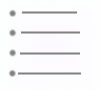
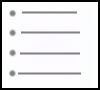
UI 'improvements'

Changed region(s): [[0.0, 0.0, 1.0, 1.0]]

diff --git a/src/ui/componentfactory/UtilityComponentFactory.kt b/src/ui/componentfactory/UtilityComponentFactory.kt
@@ -12,9 +12,12 @@ import javafx.scene.image.ImageView
 import javafx.scene.image.PixelFormat
 import javafx.scene.image.WritableImage
 import javafx.scene.input.MouseEvent
+import javafx.scene.layout.GridPane
+import javafx.scene.layout.StackPane
 import javafx.scene.text.Font
 import javafx.scene.text.Text
 import javafx.util.Duration
+import jdk.jshell.execution.Util
 import main.UIGlobals
 import shortstate.ShortStateCharacter
 import shortstate.report.Report
@@ -26,9 +29,13 @@ import ui.specialdisplayables.selectionmodal.Tab
 object UtilityComponentFactory {
 
     fun imageView(url: String, height: Double): ImageView {
+        return imageView(url, height, 1.0)
+    }
+
+    fun imageView(url: String, height: Double, width: Double): ImageView {
         val retval = ImageView(imageFromPath(url))
         retval.fitHeight = (UIGlobals.totalHeight()) * height
-        retval.fitWidth = UIGlobals.totalWidth()
+        retval.fitWidth = UIGlobals.totalWidth() / width
         return retval
     }
 
@@ -65,7 +72,7 @@ object UtilityComponentFactory {
         return view
     }
 
-    fun newSceneButton(perspective: ShortStateCharacter): Button {
+    fun newSceneButton(perspective: ShortStateCharacter): Node {
         return shortButton("Go Somewhere Else",
                 EventHandler { _ -> UIGlobals.focusOn(
                     NewSceneSelector.newSceneSelector(perspective)
@@ -74,11 +81,11 @@ object UtilityComponentFactory {
         )
     }
 
-    fun backButton(): Button{
+    fun backButton(): Node{
         return proportionalBackButton(1.0)
     }
 
-    fun proportionalBackButton(proportion: Double): Button{
+    fun proportionalBackButton(proportion: Double): Node{
         return proportionalButton("Back", EventHandler { UIGlobals.defocus() }, proportion)
     }
 
@@ -103,22 +110,25 @@ object UtilityComponentFactory {
         }
     }
 
-    fun shortButton(text: String, action: EventHandler<MouseEvent>?): Button {
+    fun shortButton(text: String, action: EventHandler<MouseEvent>?): Node {
         return shortButton(text, action, 1)
     }
 
-    fun shortButton(text: String, action: EventHandler<MouseEvent>?, specialWidth: Int): Button {
+    fun shortButton(text: String, action: EventHandler<MouseEvent>?, specialWidth: Int): Node {
         return shortButton(text, action, specialWidth.toDouble())
     }
 
-    fun shortButton(text: String, action: EventHandler<MouseEvent>?, specialWidth: Double): Button {
+    fun shortButton(text: String, action: EventHandler<MouseEvent>?, specialWidth: Double): Node {
         val retval = proportionalButton(text, action, 4.0)
-        retval.setMinSize(retval.minWidth*specialWidth, retval.minHeight)
         return retval
     }
 
-    fun shortWideButton(text: String, action: EventHandler<MouseEvent>?): Button {
+    fun shortWideButton(text: String, action: EventHandler<MouseEvent>?): Node {
         return proportionalButton(text, action, 1.0)
+    }
+
+    fun shortWideClickedButton(text: String, action: EventHandler<MouseEvent>?): Node {
+        return proportionalButton(text, action, 1.0, 0.1, true)
     }
 
     fun shortWideTextField(text: String): TextField{
@@ -152,11 +162,21 @@ object UtilityComponentFactory {
         return retval
     }
 
-    fun proportionalButton(text: String, action: EventHandler<MouseEvent>?, proportion: Double): Button{
-        val retval = Button(text)
-        setSize(retval, proportion)
+    fun proportionalButton(text: String, action: EventHandler<MouseEvent>?, proportion: Double): Node{
+        return proportionalButton(text, action, proportion, 0.1, false)
+    }
+
+    fun proportionalButton(text: String, action: EventHandler<MouseEvent>?, width: Double, height: Double, clicked: Boolean): Node{
+        val image = if(clicked){ imageView("assets/general/generalButtonSelected.png", height, width)} else {imageView("assets/general/generalButton.png", height, width)}
+
+        val text = Text(text)
+        text.font = Font(20.0)
+
+        val retval = StackPane()
+        retval.children.add(image)
+        retval.children.add(text)
         if (action != null) {
-            retval.onMouseClicked = action
+            retval.onMouseClicked = EventHandler { event -> retval.children.set(0, imageView("assets/general/generalButtonSelected.png", height, width)); image.fitWidth = UIGlobals.totalWidth() / width; action.handle(event) }
         }
         return retval
     }

diff --git a/src/ui/specialdisplayables/selectionmodal/SelectionModal.kt b/src/ui/specialdisplayables/selectionmodal/SelectionModal.kt
@@ -1,7 +1,9 @@
 package ui.specialdisplayables.selectionmodal
 
+import javafx.application.Platform
 import javafx.collections.FXCollections
 import javafx.event.EventHandler
+import javafx.geometry.Insets
 import javafx.scene.Scene
 import javafx.scene.control.Button
 import javafx.scene.control.ListView
@@ -23,11 +25,11 @@ class SelectionModal<T>: NoPerspectiveDisplayable {
     val parent = UIGlobals.GUI()
     val title: String
     val options: List<Tab<T>>
-    val closeAction: (T) -> Unit
+    val closeAction: ((T) -> Unit)?
 
     var focusedTab: Tab<T>
 
-    constructor(title: String, options: List<Tab<T>>, action: (T) -> Unit): super(){
+    constructor(title: String, options: List<Tab<T>>, action: ((T) -> Unit)?): super(){
         this.title = title
         this.options = options
         this.focusedTab = options[0]
@@ -72,13 +74,8 @@ class SelectionModal<T>: NoPerspectiveDisplayable {
             val tabsPane = GridPane()
             var index = 0
             options.forEach {
-                val topic = Button(it.title)
-                if(it == focusedTab){
-                    topic.font = Font(18.0)
-                } else {
-                    topic.onAction = EventHandler {_ -> focusedTab = it; parent.display()}
-                }
-                topic.setMinSize(parent.totalWidth / options.size, parent.totalHeight / 20)
+                val topic = UtilityComponentFactory.proportionalButton(it.title, EventHandler{_ -> focusedTab = it; parent.display()}, options.size * 1.0, 0.05, it == focusedTab)
+
                 tabsPane.add(topic, index++, 0)
             }
             retval.add(tabsPane, 0,1)
@@ -88,15 +85,23 @@ class SelectionModal<T>: NoPerspectiveDisplayable {
         return retval
     }
 
-    internal class ActionPickCell<T>(val closeAction: (T) -> Unit) : ListCell<T>() {
+    internal class ActionPickCell<T>(val closeAction: ((T) -> Unit)?) : ListCell<T>() {
         public override fun updateItem(item: T?, empty: Boolean) {
             if(item != null){
                 super.updateItem(item, empty)
                 val displayText = if(item is PrettyPrintable){ item.prettyPrint(UIGlobals.GUI().shortGame(), UIGlobals.playingAs()) } else{ item.toString() }
-                val text = Text(displayText)
-                text.font = Font(20.0)
-                this.graphic = text
-                this.onMouseClicked = EventHandler{_ -> closeAction(item)}
+
+                if(closeAction != null){
+                    this.graphic = UtilityComponentFactory.shortWideButton(displayText, EventHandler { })
+                    this.onMouseClicked = EventHandler { _ -> this.graphic = UtilityComponentFactory.shortWideClickedButton(displayText, EventHandler { });  Platform.runLater { Thread.sleep(100); closeAction!!(item) }}
+                    this.padding = Insets.EMPTY
+                } else {
+                    val node = GridPane()
+
+                    node.add(UtilityComponentFactory.shortWideLabel(displayText),0,0)
+
+                    this.graphic = node
+                }
             }
         }
     }

diff --git a/src/ui/componentfactory/MiddlePaneComponentFactory.kt b/src/ui/componentfactory/MiddlePaneComponentFactory.kt
@@ -1,10 +1,10 @@
 package ui.componentfactory
 
-import javafx.event.EventHandler
 import javafx.scene.Node
 import javafx.scene.control.Label
 import javafx.scene.layout.GridPane
 import javafx.scene.layout.Pane
+import javafx.scene.layout.StackPane
 import javafx.scene.text.Font
 import main.UIGlobals
 import shortstate.ShortStateCharacter
@@ -18,24 +18,31 @@ import ui.specialdisplayables.selectionmodal.SelectionModal
 object MiddlePaneComponentFactory {
 
     fun middlePane(perspective: ShortStateCharacter, locked: Boolean): Pane {
-        val retval = GridPane()
+        val background = UtilityComponentFactory.imageView("assets/general/generalInfo.png", 0.1)
+
+        val mainPane = GridPane()
 
         val turnDisplay = Label(UIGlobals.activeGame().turnName())
         turnDisplay.font = Font(20.0)
         turnDisplay.setMinSize(UIGlobals.totalWidth()/6, UIGlobals.totalHeight() * BOTTOM_BAR_PORTION)
-        retval.add(turnDisplay, 0,0)
+        mainPane.add(turnDisplay, 0,0)
         val statsDisplay = Label("Energy: " + perspective.energy + "/1000")
         UtilityComponentFactory.applyTooltip(statsDisplay, "Every action will cost energy. Running out of energy with leave you with no option but to end turn.")
         statsDisplay.setMinSize(UIGlobals.totalWidth()/6, UIGlobals.totalHeight() * BOTTOM_BAR_PORTION)
-        retval.add(statsDisplay, 1,0)
+        mainPane.add(statsDisplay, 1,0)
 
-        nonModifyingComponents(perspective).entries.forEach { retval.add(it.value, it.key, 0) }
+        nonModifyingComponents(perspective).entries.forEach { mainPane.add(it.value, it.key, 0) }
 
         if(!locked){
-            modifyingComponents(perspective, locked).entries.forEach { retval.add(it.value, it.key, 0) }
+            modifyingComponents(perspective, locked).entries.forEach { mainPane.add(it.value, it.key, 0) }
         } else {
-            modifyingComponents(perspective, locked).entries.forEach { retval.add(it.value, it.key, 0); retval.children[it.key].isDisable = true }
+            modifyingComponents(perspective, locked).entries.forEach { mainPane.add(it.value, it.key, 0); mainPane.children[it.key].isDisable = true }
         }
+
+        val retval = StackPane()
+
+        retval.children.add(background)
+        retval.children.add(mainPane)
 
         return retval
     }

diff --git a/src/ui/componentfactory/DealComponentFactory.kt b/src/ui/componentfactory/DealComponentFactory.kt
@@ -78,15 +78,15 @@ open class DealComponentFactory {
         actions.forEach {
             val topic = UtilityComponentFactory.proportionalButton("${it.key.name} will...", tapClickAction(it.key), (actions.size+1).toDouble())
             if(it.key == currentPage){
-                topic.font = Font(18.0)
-                topic.onAction = null
+                //topic.font = Font(18.0)
+                //topic.onAction = null
             }
-            topic.setMinSize(UIGlobals.totalWidth() / (deal.theActions().size+1), UIGlobals.totalHeight() / 10)
+            //topic.setMinSize(UIGlobals.totalWidth() / (deal.theActions().size+1), UIGlobals.totalHeight() / 10)
             topPane.add(topic, index++, 0)
         }
         if(deal is UnfinishedDeal){
             val addButton = UtilityComponentFactory.proportionalButton("Add Character", EventHandler { _ -> UIGlobals.focusOn(characterSelector()) }, (actions.size+1).toDouble())
-            addButton.setMinSize(UIGlobals.totalWidth() / (deal.theActions().size+1), UIGlobals.totalHeight() / 10)
+            //addButton.setMinSize(UIGlobals.totalWidth() / (deal.theActions().size+1), UIGlobals.totalHeight() / 10)
             topPane.add(addButton,index++,0)
         }
         return topPane

diff --git a/src/ui/componentfactory/BottomPaneComponentFactory.kt b/src/ui/componentfactory/BottomPaneComponentFactory.kt
@@ -1,6 +1,7 @@
 package ui.componentfactory
 
 import javafx.event.EventHandler
+import javafx.scene.Node
 import javafx.scene.control.Button
 import javafx.scene.layout.GridPane
 import javafx.scene.layout.Pane
@@ -20,7 +21,7 @@ object BottomPaneComponentFactory {
         }
     }
 
-    fun bottomPane(buttons: List<Button>, perspective: ShortStateCharacter): Pane {
+    fun bottomPane(buttons: List<Node>, perspective: ShortStateCharacter): Pane {
 
         val buttonsPane = GridPane()
         for(index in 0..3){
@@ -37,11 +38,11 @@ object BottomPaneComponentFactory {
         return retval
     }
 
-    fun outOfConvoButtons(scene: ShortGameScene, perspective: ShortStateCharacter): List<Button> {
+    fun outOfConvoButtons(scene: ShortGameScene, perspective: ShortStateCharacter): List<Node> {
         val endTurnButton = UtilityComponentFactory.shortButton("End Turn", EventHandler { _ -> UIGlobals.focusOn(
             EndTurnMenu()
         )})
 
-        return listOf(endTurnButton).plus(UIGlobals.activeGame().gameLogicModules.flatMap { it.bottomButtons(perspective) })
+        return listOf(endTurnButton)
     }
 }

diff --git a/src/gamelogic/travel/TravelLogicModule.kt b/src/gamelogic/travel/TravelLogicModule.kt
@@ -6,6 +6,7 @@ import game.*
 import gamelogic.government.specialdisplayables.TravelView
 import gamelogic.territory.TerritoryLogicModule
 import javafx.event.EventHandler
+import javafx.scene.Node
 import javafx.scene.control.Button
 import main.UIGlobals
 import shortstate.ShortStateCharacter
@@ -44,12 +45,6 @@ class TravelLogicModule: GameLogicModule{
 
     override fun score(perspective: GameCharacter): Score {
         TODO("not implemented") //To change body of created functions use File | Settings | File Templates.
-    }
-
-    override fun bottomButtons(perspective: ShortStateCharacter): List<Button> {
-        return listOf( UtilityComponentFactory.shortButton("Leave Location", EventHandler { _ -> UIGlobals.focusOn(
-            TravelView(perspective)
-        )}))
     }
 
 }

diff --git a/src/ui/specialdisplayables/OptionsMenu.kt b/src/ui/specialdisplayables/OptionsMenu.kt
@@ -1,6 +1,7 @@
 package ui.specialdisplayables
 
 import javafx.event.EventHandler
+import javafx.scene.Node
 import javafx.scene.Scene
 import javafx.scene.control.Button
 import javafx.scene.layout.GridPane
@@ -59,7 +60,7 @@ class OptionsMenu: PerspectiveDisplayable() {
         return Scene(pane)
     }
 
-    private fun setResButton(width: Int, height: Int): Button {
+    private fun setResButton(width: Int, height: Int): Node {
         return UtilityComponentFactory.proportionalButton("${width}x${height}", EventHandler { UIGlobals.GUI().setResolution(width.toDouble(),height.toDouble()) }, 6.0)
     }
 }

diff --git a/src/gamelogic/government/GovernmentLogicModule.kt b/src/gamelogic/government/GovernmentLogicModule.kt
@@ -111,10 +111,6 @@ class GovernmentLogicModule: GameLogicModule {
         return retval
     }
 
-    override fun bottomButtons(perspective: ShortStateCharacter): List<Button> {
-        return listOf()
-    }
-
     override fun planOptions(
         perspective: GameCharacter,
         importantPlayers: Collection<GameCharacter>

diff --git a/src/gamelogic/territory/TerritoryLogicModule.kt b/src/gamelogic/territory/TerritoryLogicModule.kt
@@ -78,10 +78,6 @@ class TerritoryLogicModule: GameLogicModule {
         return Score()
     }
 
-    override fun bottomButtons(perspective: ShortStateCharacter): List<Button> {
-        return listOf()
-    }
-
     override fun planOptions(
         perspective: GameCharacter,
         importantPlayers: Collection<GameCharacter>

diff --git a/src/game/GameLogicModule.kt b/src/game/GameLogicModule.kt
@@ -96,6 +96,4 @@ abstract class GameLogicModule {
     abstract fun planOptions(perspective: GameCharacter, importantPlayers: Collection<GameCharacter>): Collection<Plan>
 
     abstract fun score(perspective: GameCharacter): Score
-
-    abstract fun bottomButtons(perspective: ShortStateCharacter): List<Button>
 }

diff --git a/src/test/controller/TestMultithreading.kt b/src/test/controller/TestMultithreading.kt
@@ -108,8 +108,4 @@ class SlowModule: GameLogicModule {
         return Score()
     }
 
-    override fun bottomButtons(perspective: ShortStateCharacter): List<Button> {
-        TODO("not implemented") //To change body of created functions use File | Settings | File Templates.
-    }
-
 }

diff --git a/src/gamelogic/playerresources/PlayerResourceModule.kt b/src/gamelogic/playerresources/PlayerResourceModule.kt
@@ -54,10 +54,6 @@ class PlayerResourceModule: GameLogicModule {
         return retval
     }
 
-    override fun bottomButtons(perspective: ShortStateCharacter): List<Button> {
-        return listOf()
-    }
-
 }
 
 class EmptyTitleFactory: TitleFactory{
